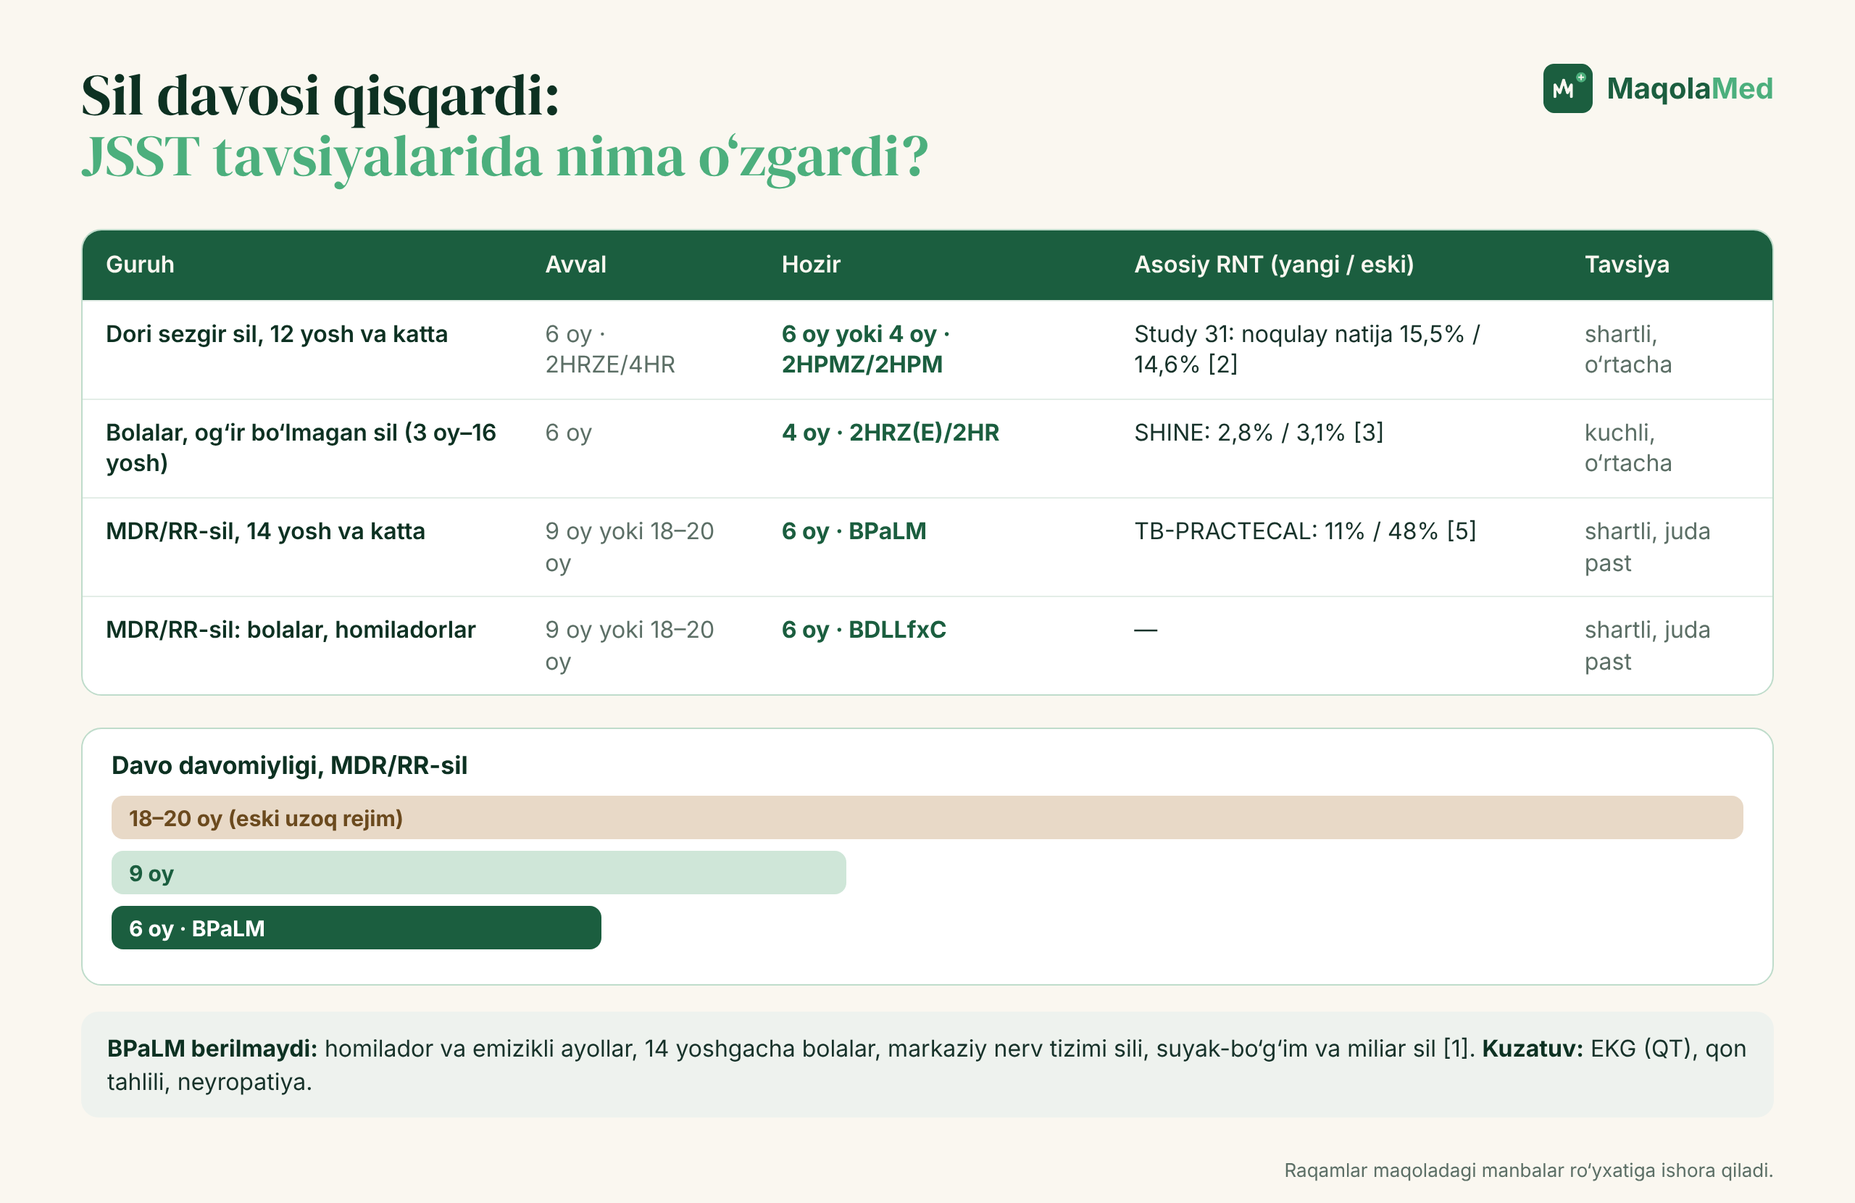
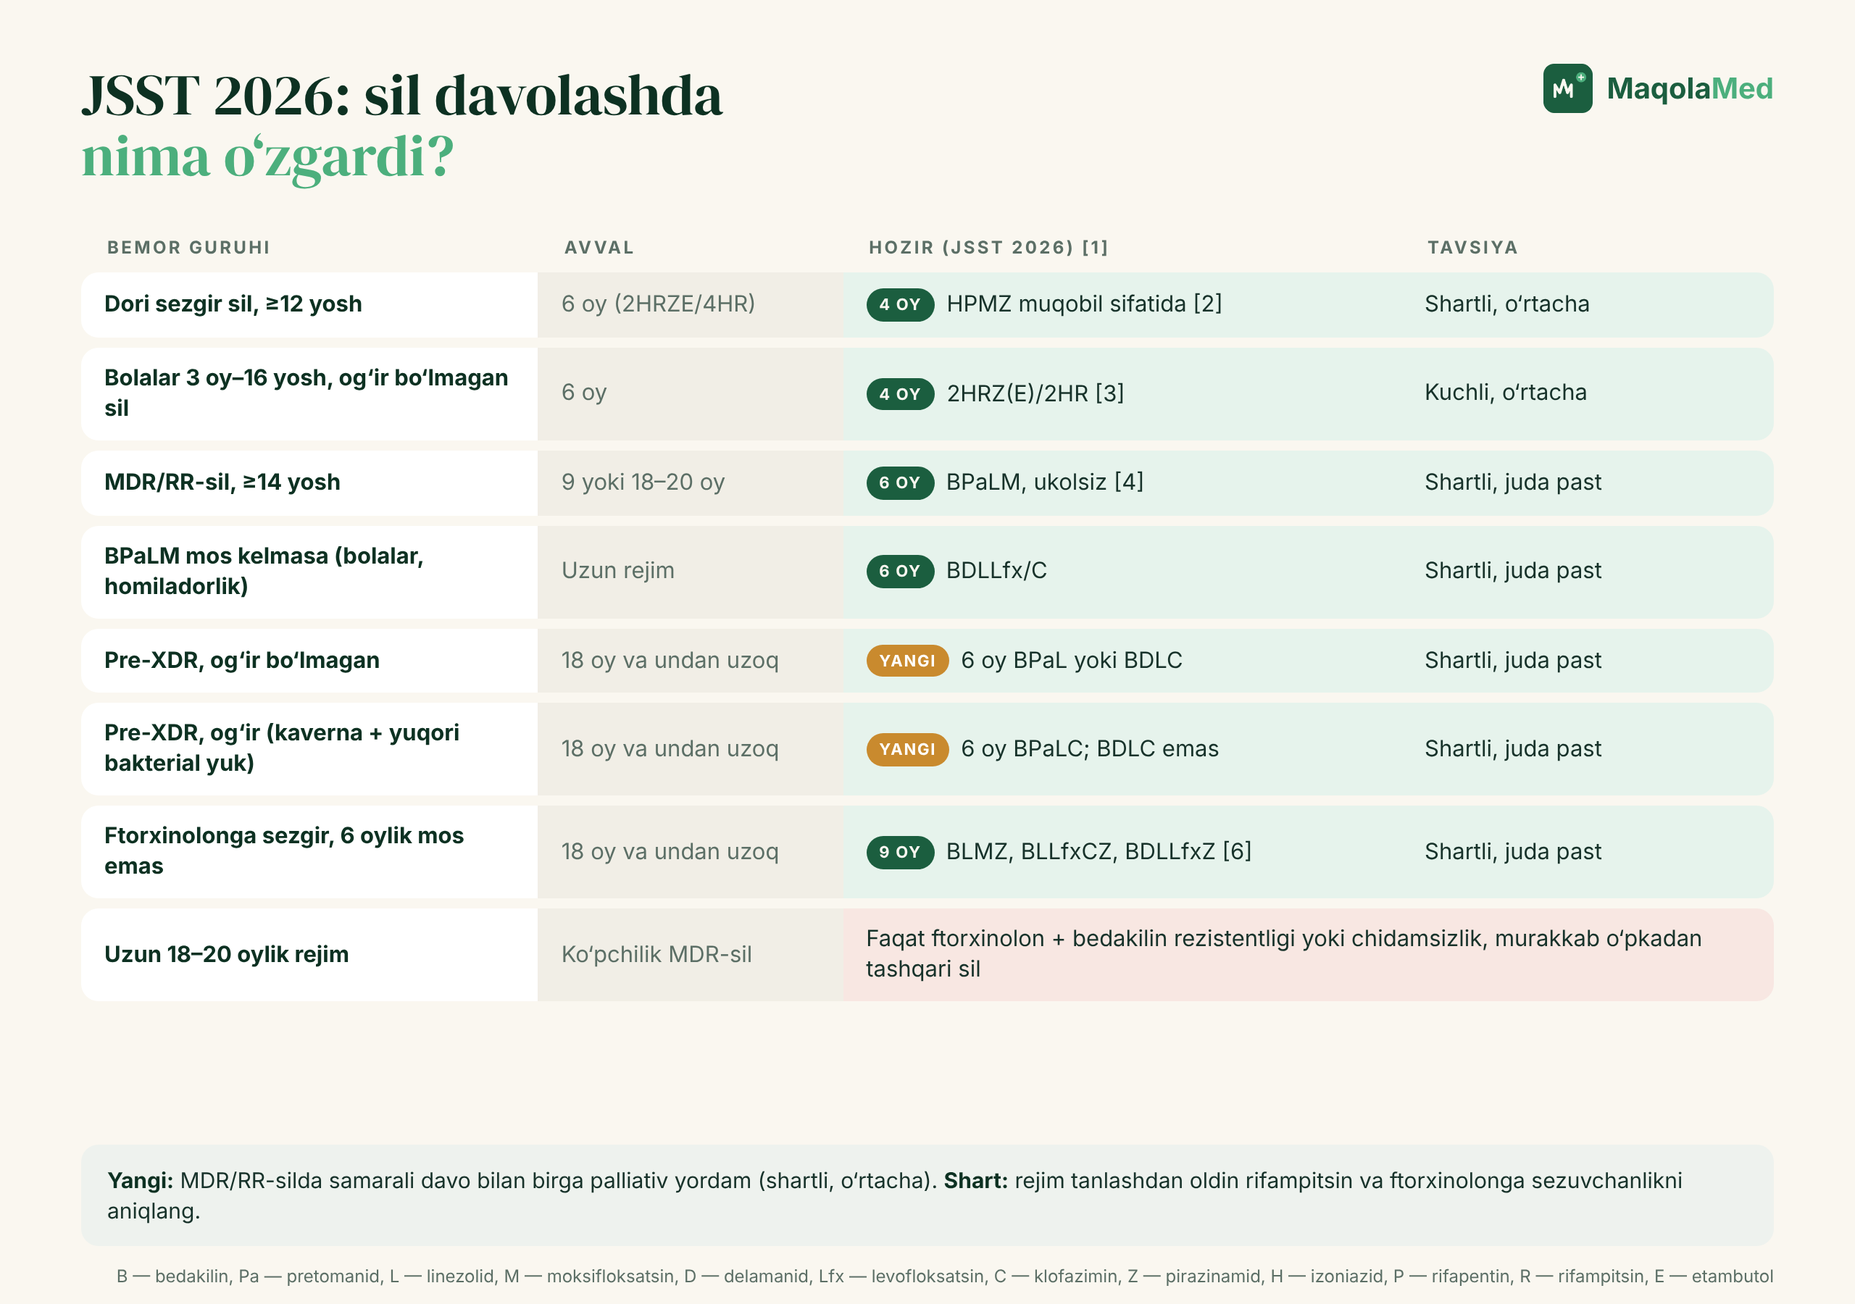
23-dekabr maqolasi qayta yozildi (v2, humanizer): JSST 2026 sil qisqa rejimlari — muqovalar, 1 rasm

diff --git a/_manba/2026-12-23/muqova-instagram-4x5.html b/_manba/2026-12-23/muqova-instagram-4x5.html
@@ -1,0 +1,87 @@
+<!doctype html>
+<html lang="uz">
+<head><base href="file:///home/claude/maqolamed-rasmlar/_shablon/">
+<meta charset="utf-8">
+<style>
+@font-face{font-family:"DM Serif Display";src:url("fonts/dm-serif-display-latin-400-normal.woff2") format("woff2");}
+@font-face{font-family:"DM Serif Display";src:url("fonts/dm-serif-display-latin-ext-400-normal.woff2") format("woff2");unicode-range:U+0100-024F,U+1E00-1EFF;}
+:root{
+  --emerald:#1B5E3F; --deep:#0D3122; --cream:#FAF7F0; --mint:#7FC9A0; --green:#4CAF7D;
+}
+*{margin:0;padding:0;box-sizing:border-box}
+html,body{width:1280px;height:720px;overflow:hidden;background:var(--deep)}
+.cover{position:relative;width:1280px;height:720px;overflow:hidden;font-family:"Inter",sans-serif;color:var(--cream);
+  background:
+    radial-gradient(900px 600px at 78% 40%, rgba(76,175,125,.22), transparent 60%),
+    radial-gradient(700px 500px at 0% 100%, rgba(13,49,34,.9), transparent 70%),
+    linear-gradient(135deg,#123F2C 0%, #1B5E3F 55%, #164D34 100%);}
+.grid{position:absolute;inset:0;background-image:
+    linear-gradient(rgba(250,247,240,.035) 1px,transparent 1px),
+    linear-gradient(90deg,rgba(250,247,240,.035) 1px,transparent 1px);
+  background-size:40px 40px;}
+.ekg{position:absolute;left:0;top:300px;width:1280px;height:200px;opacity:.16}
+.left{position:absolute;left:64px;top:52px;width:690px}
+.brand{display:flex;align-items:center;gap:28px}
+.brand img{height:62px;display:block}
+.tag{display:flex;align-items:center;gap:14px;font-size:13px;letter-spacing:.32em;color:rgba(250,247,240,.72);font-weight:500}
+.tag i{width:4px;height:4px;border-radius:50%;background:var(--mint);display:inline-block}
+.tag .line{width:90px;height:1px;background:rgba(250,247,240,.35)}
+.kicker{margin-top:54px;display:inline-flex;align-items:center;gap:10px;font-size:15px;font-weight:600;letter-spacing:.14em;text-transform:uppercase;color:var(--mint)}
+.kicker span{display:inline-block;width:28px;height:2px;background:var(--mint)}
+h1{margin-top:16px;font-family:"DM Serif Display",serif;font-weight:400;font-size:78px;line-height:.98;letter-spacing:-.01em;color:var(--cream)}
+h1 em{font-style:normal;color:var(--mint)}
+.sub{margin-top:22px;font-size:21px;color:rgba(250,247,240,.82);font-weight:400}
+.points{position:absolute;left:64px;bottom:50px;display:flex;gap:0}
+.pt{width:172px;padding-right:18px;display:flex;flex-direction:column;align-items:flex-start;gap:12px}
+.pt + .pt{padding-left:22px;border-left:1px solid rgba(250,247,240,.18)}
+.ic{width:52px;height:52px;border-radius:50%;border:1.6px solid rgba(250,247,240,.75);display:grid;place-items:center}
+.ic svg{width:26px;height:26px;stroke:var(--cream);fill:none;stroke-width:1.7;stroke-linecap:round;stroke-linejoin:round}
+.pt p{font-size:15px;line-height:1.3;color:rgba(250,247,240,.92);font-weight:500}
+.card{position:absolute;right:56px;top:96px;width:400px;border-radius:22px;padding:28px 30px 26px;
+  background:linear-gradient(160deg,rgba(13,49,34,.82),rgba(13,49,34,.62));
+  border:1px solid rgba(127,201,160,.35);box-shadow:0 30px 60px rgba(0,0,0,.35)}
+.card .ch{display:flex;justify-content:space-between;align-items:center}
+.card .lbl{font-size:12px;letter-spacing:.24em;font-weight:600;color:var(--mint)}
+.card .pill{font-size:12px;font-weight:600;padding:5px 10px;border-radius:999px;background:rgba(127,201,160,.16);color:var(--mint)}
+.card h3{margin-top:14px;font-size:22px;font-weight:600}
+.card h3 small{display:block;margin-top:4px;font-size:14px;font-weight:400;color:rgba(250,247,240,.65)}
+.rows{margin-top:18px;border-top:1px solid rgba(250,247,240,.14)}
+.row{display:flex;justify-content:space-between;padding:9px 0;border-bottom:1px solid rgba(250,247,240,.10);font-size:16px}
+.row span:first-child{color:rgba(250,247,240,.68)}
+.row span:last-child{font-weight:600;font-variant-numeric:tabular-nums}
+.row .ok{color:var(--mint)}
+.quote{margin-top:18px;font-family:"DM Serif Display",serif;font-size:21px;line-height:1.25;color:var(--cream)}
+.ask{margin-top:16px;display:flex;align-items:center;justify-content:space-between;padding:13px 16px;border-radius:12px;background:var(--green);color:#0D3122;font-weight:700;font-size:17px}
+.ask svg{width:22px;height:22px;stroke:#0D3122;fill:none;stroke-width:2.2;stroke-linecap:round;stroke-linejoin:round}
+
+html,body{width:1080px;height:1350px}
+.cover{width:1080px;height:1350px}
+.ekg{top:525px;width:1080px}
+.left{left:72px;top:64px;width:940px}
+.brand img{height:72px}
+h1{font-size:96px;margin-top:18px}
+.kicker{margin-top:56px;font-size:17px}
+.sub{font-size:24px}
+.card{left:72px;right:72px;top:auto;bottom:250px;width:auto;padding:30px 34px}
+.rows{display:grid;grid-template-columns:1fr 1fr;column-gap:40px}
+.quote{font-size:24px}
+.points{left:72px;right:72px;bottom:60px}
+.pt{width:auto;flex:1}
+.pt p{font-size:17px}
+
+
+
+h1{font-size:88px}
+</style>
+</head>
+<body><div class="cover"><div class="grid"></div>
+<svg class="ekg" viewBox="0 0 1280 200" preserveAspectRatio="none"><polyline fill="none" stroke="#7FC9A0" stroke-width="3" stroke-linejoin="round" stroke-linecap="round" points="0,120 640,120 670,120 690,98 710,120 750,120 770,40 795,175 820,120 880,120 905,102 930,120 1280,120"/></svg>
+<div class="left"><div class="brand"><img src="logo_dark_bg.png" alt="MaqolaMed"></div>
+<div class="tag" style="margin-top:22px"><span>ILM</span><i></i><span>AMALIYOT</span><i></i><span>ODAM UCHUN</span><span class="line"></span></div>
+<div class="kicker"><span></span>Tavsiyanoma · Pulmonologiya</div>
+<h1>Sil davosi:<br>JSST qisqa rejimlari<br><em>nima o‘zgardi?</em></h1>
+<div class="sub">Ikki yillik ukol o‘rniga 6 oylik tabletka.</div></div>
+<div class="points"><div class="pt"><div class="ic"><svg viewBox="0 0 24 24"><circle cx="12" cy="12" r="9"/><path d="M12 7v5l3 2"/></svg></div><p>Dori sezgir silda 4 oy yetadimi?</p></div><div class="pt"><div class="ic"><svg viewBox="0 0 24 24"><rect x="3" y="8.5" width="18" height="7" rx="3.5" transform="rotate(-40 12 12)"/><path d="M9.3 9.3l5.4 5.4"/></svg></div><p>BPaLM kimga mos?</p></div><div class="pt"><div class="ic"><svg viewBox="0 0 24 24"><path d="M12 3l9.5 17h-19z"/><path d="M12 10v4"/><path d="M12 17v.5"/></svg></div><p>Pre-XDR silda nima yangi?</p></div><div class="pt"><div class="ic"><svg viewBox="0 0 24 24"><path d="M4 20V4"/><path d="M4 20h16"/><path d="M8 16l4-5 3 3 5-7"/></svg></div><p>Bizda natija qanday?</p></div></div>
+<div class="card"><div class="ch"><span class="lbl">NIMA O‘ZGARDI</span><span class="pill">JSST 2026</span></div>
+<h3>Module 4, 2-nashr<small>Sil davolash bo‘yicha</small></h3><div class="rows"><div class="row"><span>Dori sezgir, ≥12 yosh</span><span class="ok">4 oy HPMZ</span></div><div class="row"><span>Bolalar, og‘ir emas</span><span class="ok">4 oy</span></div><div class="row"><span>MDR/RR-sil</span><span class="ok">6 oy BPaLM</span></div><div class="row"><span>Pre-XDR</span><span class="ok">og‘irligiga qarab</span></div><div class="row"><span>9 oylik og‘iz rejimlari</span><span class="">3 ta</span></div><div class="row"><span>18–20 oy</span><span class="">tor guruhga</span></div></div><div class="quote">«Endi ikki yil ukol olamanmi?»</div><div class="ask">Nima deysiz?<svg viewBox="0 0 24 24"><path d="M5 12h14"/><path d="M13 6l6 6-6 6"/></svg></div></div>
+</div></body></html>

diff --git a/_manba/2026-12-23/muqova-16x9.html b/_manba/2026-12-23/muqova-16x9.html
@@ -1,0 +1,70 @@
+<!doctype html>
+<html lang="uz">
+<head><base href="file:///home/claude/maqolamed-rasmlar/_shablon/">
+<meta charset="utf-8">
+<style>
+@font-face{font-family:"DM Serif Display";src:url("fonts/dm-serif-display-latin-400-normal.woff2") format("woff2");}
+@font-face{font-family:"DM Serif Display";src:url("fonts/dm-serif-display-latin-ext-400-normal.woff2") format("woff2");unicode-range:U+0100-024F,U+1E00-1EFF;}
+:root{
+  --emerald:#1B5E3F; --deep:#0D3122; --cream:#FAF7F0; --mint:#7FC9A0; --green:#4CAF7D;
+}
+*{margin:0;padding:0;box-sizing:border-box}
+html,body{width:1280px;height:720px;overflow:hidden;background:var(--deep)}
+.cover{position:relative;width:1280px;height:720px;overflow:hidden;font-family:"Inter",sans-serif;color:var(--cream);
+  background:
+    radial-gradient(900px 600px at 78% 40%, rgba(76,175,125,.22), transparent 60%),
+    radial-gradient(700px 500px at 0% 100%, rgba(13,49,34,.9), transparent 70%),
+    linear-gradient(135deg,#123F2C 0%, #1B5E3F 55%, #164D34 100%);}
+.grid{position:absolute;inset:0;background-image:
+    linear-gradient(rgba(250,247,240,.035) 1px,transparent 1px),
+    linear-gradient(90deg,rgba(250,247,240,.035) 1px,transparent 1px);
+  background-size:40px 40px;}
+.ekg{position:absolute;left:0;top:300px;width:1280px;height:200px;opacity:.16}
+.left{position:absolute;left:64px;top:52px;width:690px}
+.brand{display:flex;align-items:center;gap:28px}
+.brand img{height:62px;display:block}
+.tag{display:flex;align-items:center;gap:14px;font-size:13px;letter-spacing:.32em;color:rgba(250,247,240,.72);font-weight:500}
+.tag i{width:4px;height:4px;border-radius:50%;background:var(--mint);display:inline-block}
+.tag .line{width:90px;height:1px;background:rgba(250,247,240,.35)}
+.kicker{margin-top:54px;display:inline-flex;align-items:center;gap:10px;font-size:15px;font-weight:600;letter-spacing:.14em;text-transform:uppercase;color:var(--mint)}
+.kicker span{display:inline-block;width:28px;height:2px;background:var(--mint)}
+h1{margin-top:16px;font-family:"DM Serif Display",serif;font-weight:400;font-size:78px;line-height:.98;letter-spacing:-.01em;color:var(--cream)}
+h1 em{font-style:normal;color:var(--mint)}
+.sub{margin-top:22px;font-size:21px;color:rgba(250,247,240,.82);font-weight:400}
+.points{position:absolute;left:64px;bottom:50px;display:flex;gap:0}
+.pt{width:172px;padding-right:18px;display:flex;flex-direction:column;align-items:flex-start;gap:12px}
+.pt + .pt{padding-left:22px;border-left:1px solid rgba(250,247,240,.18)}
+.ic{width:52px;height:52px;border-radius:50%;border:1.6px solid rgba(250,247,240,.75);display:grid;place-items:center}
+.ic svg{width:26px;height:26px;stroke:var(--cream);fill:none;stroke-width:1.7;stroke-linecap:round;stroke-linejoin:round}
+.pt p{font-size:15px;line-height:1.3;color:rgba(250,247,240,.92);font-weight:500}
+.card{position:absolute;right:56px;top:96px;width:400px;border-radius:22px;padding:28px 30px 26px;
+  background:linear-gradient(160deg,rgba(13,49,34,.82),rgba(13,49,34,.62));
+  border:1px solid rgba(127,201,160,.35);box-shadow:0 30px 60px rgba(0,0,0,.35)}
+.card .ch{display:flex;justify-content:space-between;align-items:center}
+.card .lbl{font-size:12px;letter-spacing:.24em;font-weight:600;color:var(--mint)}
+.card .pill{font-size:12px;font-weight:600;padding:5px 10px;border-radius:999px;background:rgba(127,201,160,.16);color:var(--mint)}
+.card h3{margin-top:14px;font-size:22px;font-weight:600}
+.card h3 small{display:block;margin-top:4px;font-size:14px;font-weight:400;color:rgba(250,247,240,.65)}
+.rows{margin-top:18px;border-top:1px solid rgba(250,247,240,.14)}
+.row{display:flex;justify-content:space-between;padding:9px 0;border-bottom:1px solid rgba(250,247,240,.10);font-size:16px}
+.row span:first-child{color:rgba(250,247,240,.68)}
+.row span:last-child{font-weight:600;font-variant-numeric:tabular-nums}
+.row .ok{color:var(--mint)}
+.quote{margin-top:18px;font-family:"DM Serif Display",serif;font-size:21px;line-height:1.25;color:var(--cream)}
+.ask{margin-top:16px;display:flex;align-items:center;justify-content:space-between;padding:13px 16px;border-radius:12px;background:var(--green);color:#0D3122;font-weight:700;font-size:17px}
+.ask svg{width:22px;height:22px;stroke:#0D3122;fill:none;stroke-width:2.2;stroke-linecap:round;stroke-linejoin:round}
+
+h1{font-size:64px}
+</style>
+</head>
+<body><div class="cover"><div class="grid"></div>
+<svg class="ekg" viewBox="0 0 1280 200" preserveAspectRatio="none"><polyline fill="none" stroke="#7FC9A0" stroke-width="3" stroke-linejoin="round" stroke-linecap="round" points="0,120 640,120 670,120 690,98 710,120 750,120 770,40 795,175 820,120 880,120 905,102 930,120 1280,120"/></svg>
+<div class="left"><div class="brand"><img src="logo_dark_bg.png" alt="MaqolaMed"></div>
+<div class="tag" style="margin-top:22px"><span>ILM</span><i></i><span>AMALIYOT</span><i></i><span>ODAM UCHUN</span><span class="line"></span></div>
+<div class="kicker"><span></span>Tavsiyanoma · Pulmonologiya</div>
+<h1>Sil davosi:<br>JSST qisqa rejimlari<br><em>nima o‘zgardi?</em></h1>
+<div class="sub">Ikki yillik ukol o‘rniga 6 oylik tabletka.</div></div>
+<div class="points"><div class="pt"><div class="ic"><svg viewBox="0 0 24 24"><circle cx="12" cy="12" r="9"/><path d="M12 7v5l3 2"/></svg></div><p>Dori sezgir silda 4 oy yetadimi?</p></div><div class="pt"><div class="ic"><svg viewBox="0 0 24 24"><rect x="3" y="8.5" width="18" height="7" rx="3.5" transform="rotate(-40 12 12)"/><path d="M9.3 9.3l5.4 5.4"/></svg></div><p>BPaLM kimga mos?</p></div><div class="pt"><div class="ic"><svg viewBox="0 0 24 24"><path d="M12 3l9.5 17h-19z"/><path d="M12 10v4"/><path d="M12 17v.5"/></svg></div><p>Pre-XDR silda nima yangi?</p></div><div class="pt"><div class="ic"><svg viewBox="0 0 24 24"><path d="M4 20V4"/><path d="M4 20h16"/><path d="M8 16l4-5 3 3 5-7"/></svg></div><p>Bizda natija qanday?</p></div></div>
+<div class="card"><div class="ch"><span class="lbl">NIMA O‘ZGARDI</span><span class="pill">JSST 2026</span></div>
+<h3>Module 4, 2-nashr<small>Sil davolash bo‘yicha</small></h3><div class="rows"><div class="row"><span>Dori sezgir, ≥12 yosh</span><span class="ok">4 oy HPMZ</span></div><div class="row"><span>Bolalar, og‘ir emas</span><span class="ok">4 oy</span></div><div class="row"><span>MDR/RR-sil</span><span class="ok">6 oy BPaLM</span></div><div class="row"><span>Pre-XDR</span><span class="ok">og‘irligiga qarab</span></div><div class="row"><span>9 oylik og‘iz rejimlari</span><span class="">3 ta</span></div><div class="row"><span>18–20 oy</span><span class="">tor guruhga</span></div></div><div class="quote">«Endi ikki yil ukol olamanmi?»</div><div class="ask">Nima deysiz?<svg viewBox="0 0 24 24"><path d="M5 12h14"/><path d="M13 6l6 6-6 6"/></svg></div></div>
+</div></body></html>

diff --git a/_manba/2026-12-23/1-rasm.html b/_manba/2026-12-23/1-rasm.html
@@ -1,0 +1,47 @@
+<!doctype html><html lang="uz"><head><meta charset="utf-8"><base href="file:///home/claude/maqolamed-rasmlar/_shablon/">
+<style>
+@font-face{font-family:"DM Serif Display";src:url("fonts/dm-serif-display-latin-400-normal.woff2") format("woff2");}
+@font-face{font-family:"DM Serif Display";src:url("fonts/dm-serif-display-latin-ext-400-normal.woff2") format("woff2");unicode-range:U+0100-024F,U+1E00-1EFF;}
+:root{--emerald:#1B5E3F;--deep:#0D3122;--cream:#FAF7F0;--mint:#7FC9A0;--green:#4CAF7D;--ink:#17322A;--muted:#5C6F66;--amber:#C98A2E;--amberbg:#FBF1E1;--red:#B5513F;--redbg:#F8E7E2;--tint:#E6F3EC}
+*{margin:0;padding:0;box-sizing:border-box}
+html,body{width:1280px;height:var(--H,900px);background:var(--cream);overflow:hidden}
+.fig{position:relative;width:1280px;height:var(--H,900px);padding:44px 56px;font-family:"Inter",sans-serif;color:var(--ink)}
+.top{display:flex;justify-content:space-between;align-items:flex-start;margin-bottom:28px}
+h1{font-family:"DM Serif Display",serif;font-weight:400;font-size:40px;line-height:1.05;color:var(--deep)}
+h1 em{font-style:normal;color:var(--green)}
+.brand{display:flex;align-items:center;gap:10px;font-weight:700;font-size:20px;color:var(--emerald)}
+.brand img{height:34px}.brand b{color:var(--green);font-weight:700}
+table{width:100%;border-collapse:separate;border-spacing:0 8px;font-size:16px;line-height:1.35}
+th{text-align:left;font-size:12px;letter-spacing:.14em;text-transform:uppercase;color:var(--muted);padding:0 18px 2px;font-weight:700}
+td{background:#fff;padding:13px 18px;vertical-align:middle}
+td:first-child{border-radius:12px 0 0 12px;font-weight:700;color:var(--deep)}
+td:last-child{border-radius:0 12px 12px 0}
+td.new{background:var(--tint)} td.same{background:#F1EEE6;color:var(--muted)}
+td.warn{background:var(--redbg)}
+.badge{display:inline-block;font-size:11px;font-weight:700;letter-spacing:.08em;padding:4px 9px;border-radius:999px;margin-right:8px;vertical-align:1px}
+.b-new{background:var(--emerald);color:var(--cream)} .b-same{background:#E2DED3;color:var(--muted)} .b-red{background:var(--red);color:#fff} .b-amb{background:var(--amber);color:#fff}
+.muted{color:var(--muted)}
+.node{border-radius:14px;padding:14px 18px;font-size:16px;line-height:1.38}
+.node b{display:block;font-size:17px;margin-bottom:3px}
+.n-dark{background:var(--emerald);color:var(--cream)} .n-deep{background:var(--deep);color:var(--cream)}
+.n-white{background:#fff;border:1.5px solid #BFDCCB} .n-amb{background:#fff;border:1.5px solid #EBD3A9} .n-red{background:var(--redbg);border:1.5px solid #E8C3BA}
+.tagc{display:inline-block;font-size:12px;font-weight:700;letter-spacing:.12em;text-transform:uppercase;padding:6px 12px;border-radius:999px}
+.t-g{background:#DDEFE5;color:var(--emerald)} .t-a{background:var(--amberbg);color:#8A5A14} .t-r{background:var(--redbg);color:var(--red)}
+.note{position:absolute;left:56px;right:56px;bottom:40px;padding:14px 18px;border-radius:12px;background:#EEF2EE;font-size:15px;line-height:1.4}
+.note b{color:var(--deep)}
+.src{position:absolute;right:56px;bottom:12px;font-size:12px;color:var(--muted)}
+.arrow{stroke:var(--emerald);stroke-width:2.2;fill:none}
+</style></head><body><style>:root{--H:900px} td{font-size:15.5px;padding:11px 16px} table{border-spacing:0 7px}</style>
+<div class="fig"><div class="top"><h1>JSST 2026: sil davolashda<br><em>nima o‘zgardi?</em></h1><div class="brand"><img src="icon.png" alt=""><span>Maqola<b>Med</b></span></div></div>
+<table><tr><th style="width:27%">Bemor guruhi</th><th style="width:18%">Avval</th><th style="width:33%">Hozir (JSST 2026) [1]</th><th>Tavsiya</th></tr>
+<tr><td>Dori sezgir sil, ≥12 yosh</td><td class="same">6 oy (2HRZE/4HR)</td><td class="new"><span class="badge b-new">4 OY</span>HPMZ muqobil sifatida [2]</td><td class="new">Shartli, o‘rtacha</td></tr>
+<tr><td>Bolalar 3 oy–16 yosh, og‘ir bo‘lmagan sil</td><td class="same">6 oy</td><td class="new"><span class="badge b-new">4 OY</span>2HRZ(E)/2HR [3]</td><td class="new">Kuchli, o‘rtacha</td></tr>
+<tr><td>MDR/RR-sil, ≥14 yosh</td><td class="same">9 yoki 18–20 oy</td><td class="new"><span class="badge b-new">6 OY</span>BPaLM, ukolsiz [4]</td><td class="new">Shartli, juda past</td></tr>
+<tr><td>BPaLM mos kelmasa (bolalar, homiladorlik)</td><td class="same">Uzun rejim</td><td class="new"><span class="badge b-new">6 OY</span>BDLLfx/C</td><td class="new">Shartli, juda past</td></tr>
+<tr><td>Pre-XDR, og‘ir bo‘lmagan</td><td class="same">18 oy va undan uzoq</td><td class="new"><span class="badge b-amb">YANGI</span>6 oy BPaL yoki BDLC</td><td class="new">Shartli, juda past</td></tr>
+<tr><td>Pre-XDR, og‘ir (kaverna + yuqori bakterial yuk)</td><td class="same">18 oy va undan uzoq</td><td class="new"><span class="badge b-amb">YANGI</span>6 oy BPaLC; BDLC emas</td><td class="new">Shartli, juda past</td></tr>
+<tr><td>Ftorxinolonga sezgir, 6 oylik mos emas</td><td class="same">18 oy va undan uzoq</td><td class="new"><span class="badge b-new">9 OY</span>BLMZ, BLLfxCZ, BDLLfxZ [6]</td><td class="new">Shartli, juda past</td></tr>
+<tr><td>Uzun 18–20 oylik rejim</td><td class="same">Ko‘pchilik MDR-sil</td><td class="warn" colspan="2">Faqat ftorxinolon + bedakilin rezistentligi yoki chidamsizlik, murakkab o‘pkadan tashqari sil</td></tr>
+</table>
+<div class="note"><b>Yangi:</b> MDR/RR-silda samarali davo bilan birga palliativ yordam (shartli, o‘rtacha). <b>Shart:</b> rejim tanlashdan oldin rifampitsin va ftorxinolonga sezuvchanlikni aniqlang.</div>
+<div class="src">B — bedakilin, Pa — pretomanid, L — linezolid, M — moksifloksatsin, D — delamanid, Lfx — levofloksatsin, C — klofazimin, Z — pirazinamid, H — izoniazid, P — rifapentin, R — rifampitsin, E — etambutol</div></div></body></html>
